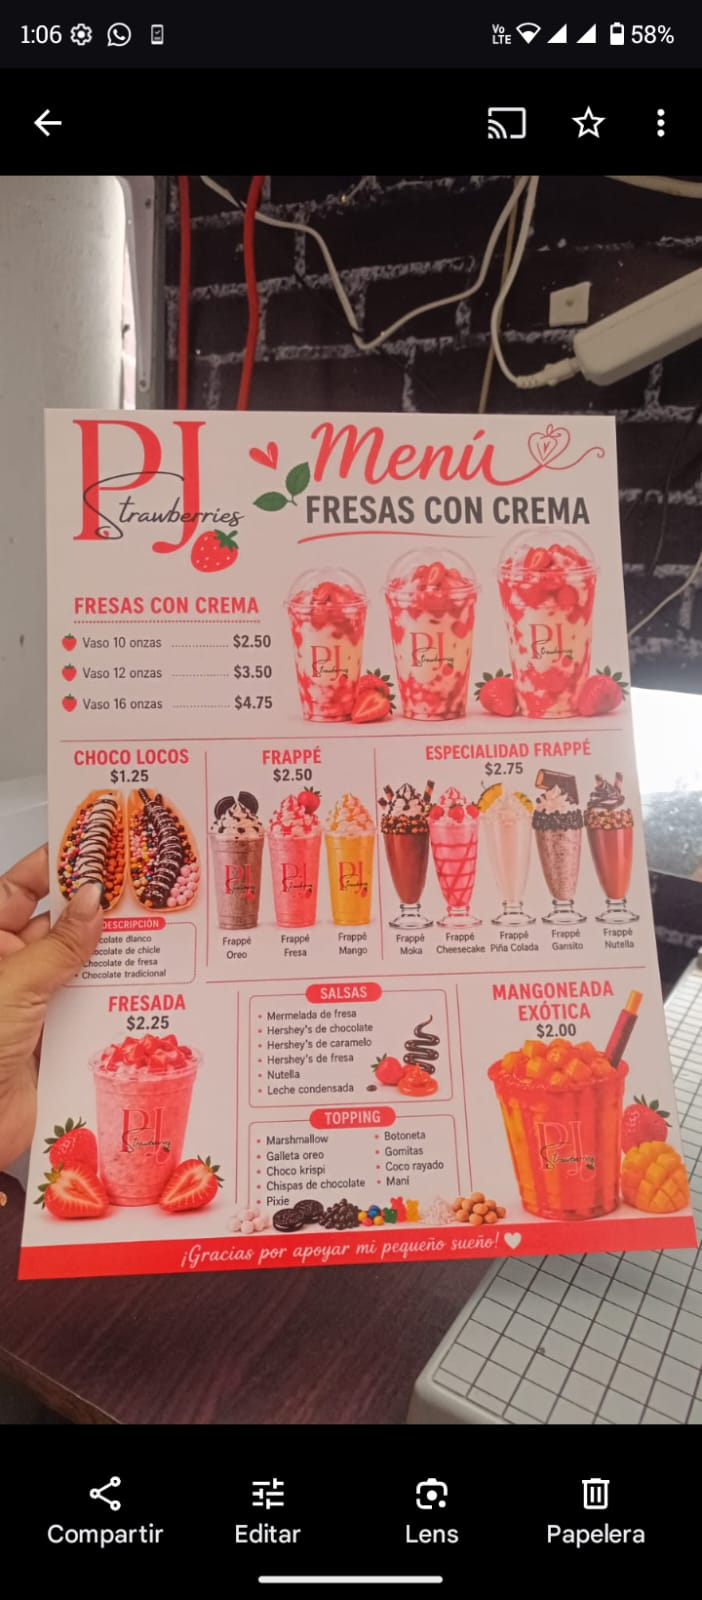
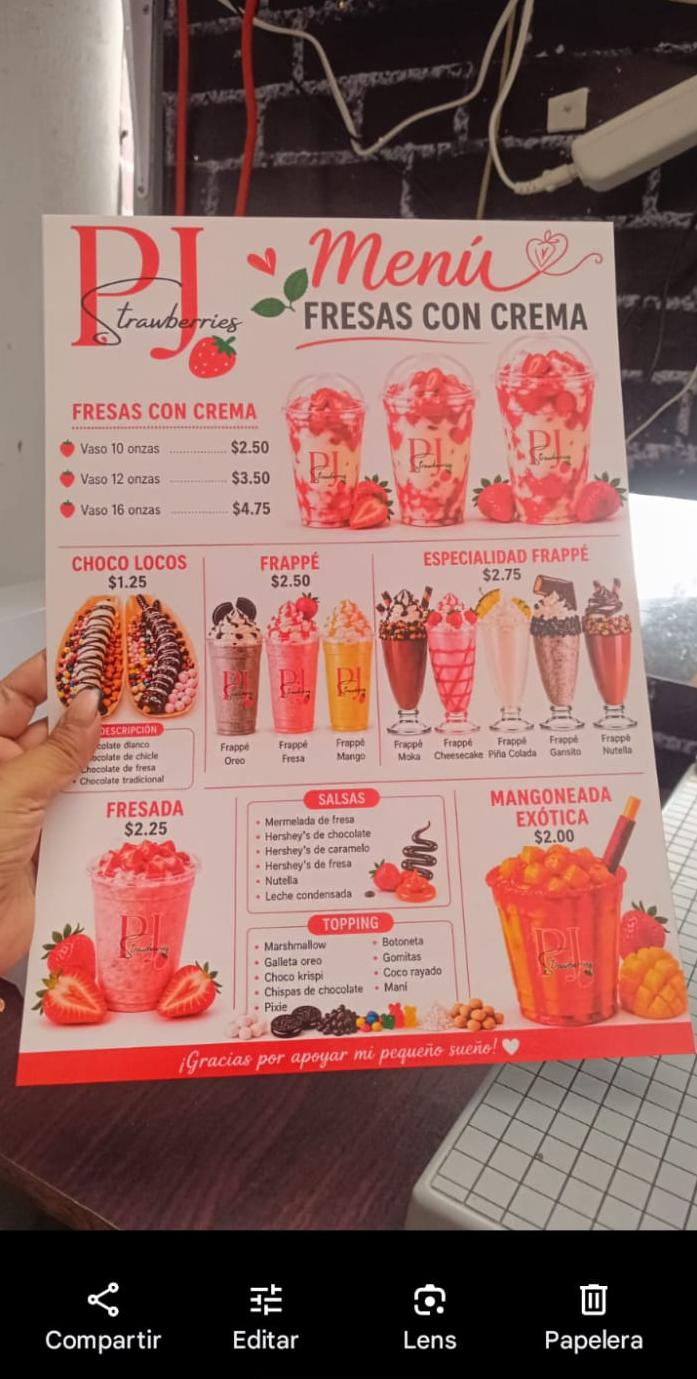
Fix overlapping text margin in gallery section

diff --git a/index.html b/index.html
@@ -13,9 +13,9 @@
 <body>
     <!-- Navbar -->
     <nav class="navbar">
-        <div class="logo">
-            <span>PJ</span> Strawberries 🍓
-        </div>
+        <a href="#hero" class="logo-link">
+            <img src="assets/images/logo.jpeg" alt="PJ Strawberries Logo" class="logo-img">
+        </a>
         <ul class="nav-links">
             <li><a href="#hero">Inicio</a></li>
             <li><a href="#productos">Menú</a></li>

diff --git a/styles.css b/styles.css
@@ -328,7 +328,7 @@ body {
     text-align: center;
     font-size: 1.2rem;
     color: #666;
-    margin-top: -2rem;
+    margin-top: 0.5rem;
     margin-bottom: 3rem;
     max-width: 700px;
     margin-left: auto;

diff --git a/assets/images/crop.py b/assets/images/crop.py
@@ -1,0 +1,60 @@
+from PIL import Image
+import sys
+
+def crop_image(img_path):
+    print(f"Processing {img_path}")
+    img = Image.open(img_path)
+    width, height = img.size
+    gray = img.convert("L")
+    
+    top = 0
+    bottom = height
+    
+    # Typical Instagram screenshot has black bars at top and bottom.
+    # Let's find the first row that is bright enough.
+    for y in range(height):
+        # Sample middle column to avoid side borders
+        if gray.getpixel((width//2, y)) > 20:
+            top = y
+            break
+            
+    for y in range(height-1, -1, -1):
+        if gray.getpixel((width//2, y)) > 20:
+            bottom = y
+            break
+            
+    # Add a bit of margin to remove any UI lines
+    top = top + 10
+    bottom = bottom - 10
+    
+    # Left and right might also be black
+    left = 0
+    for x in range(width):
+        if gray.getpixel((x, height//2)) > 20:
+            left = x
+            break
+            
+    right = width
+    for x in range(width-1, -1, -1):
+        if gray.getpixel((x, height//2)) > 20:
+            right = x
+            break
+            
+    left = max(0, left + 2)
+    right = min(width, right - 2)
+
+    # Sanity check
+    if bottom <= top or right <= left:
+        print(f"Skipping {img_path}, bounding box invalid")
+        return
+
+    print(f"Cropping {img_path} to ({left}, {top}, {right}, {bottom})")
+    cropped = img.crop((left, top, right, bottom))
+    cropped.save(img_path)
+
+try:
+    crop_image("choco_loco.jpeg")
+    crop_image("menu.jpeg")
+    print("Done!")
+except Exception as e:
+    print(f"Error: {e}")